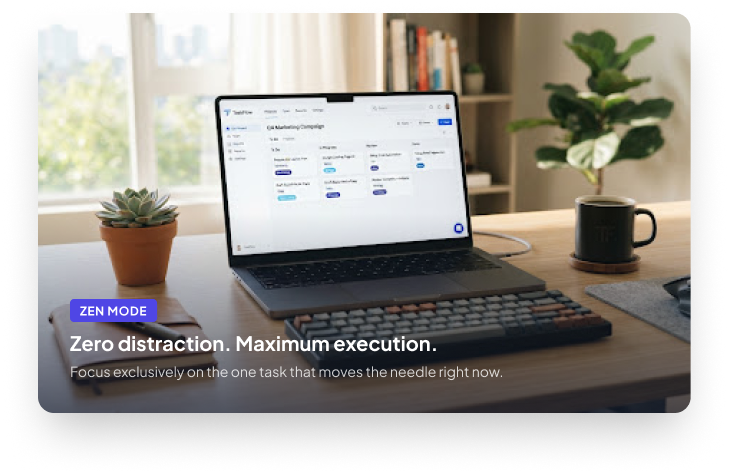
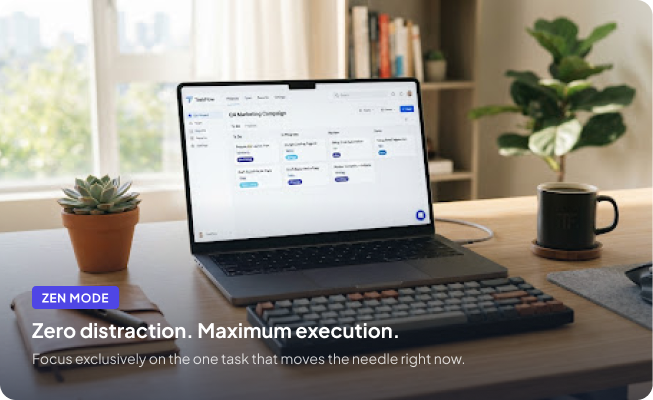
feat: making the structure for the workflow section, along with the styles and the responsive for the section

diff --git a/src/components/workflow/Workflow.jsx b/src/components/workflow/Workflow.jsx
@@ -1,0 +1,65 @@
+import lightningIcon from "../../../images/lightning-icon.svg";
+import recycleIcon from "../../../images/recycle-icon.svg";
+import workflowImage from "../../../images/workflow-image.png";
+
+const Workflow = () => {
+  return (
+    <section className="container mx-auto py-10 grid grid-cols-2 max-lg:grid-cols-1 items-center justify-items-end gap-6 px-6">
+      <div>
+        <span className="text-purple-500 text-xs font-bold tracking-widest">
+          BUILT FOR DEEP WORK
+        </span>
+        <h2 className="my-4 text-5xl font-bold leading-16">
+          Stop switching context. Everything in one unified view.
+        </h2>
+
+        <p className="text-gray-500 mb-6 leading-6">
+          Traditional task managers overwhelm you with endless nested folders
+          and cluttered forms. TaskFlow uses clean keyboard shortcuts and
+          tactile inline editing so your thoughts flow straight to execution.
+        </p>
+
+        <ul className="flex flex-col gap-3">
+          <li className="flex items-center gap-3">
+            <img src={lightningIcon} alt="Lightning icon" />
+            <div className="flex flex-col gap-1">
+              <h3 className="font-bold">Lightning-Fast Hotkeys</h3>
+              <p className="text-sm text-gray-500">
+                Press{" "}
+                <span className="inline-block p-2 bg-blue-50 font-bold rounded-2xl">
+                  C
+                </span>{" "}
+                to create,{" "}
+                <span className="inline-block p-2 bg-blue-50 font-bold rounded-2xl">
+                  E
+                </span>{" "}
+                to edit, and{" "}
+                <span className="inline-block p-2 bg-blue-50 font-bold rounded-2xl">
+                  /
+                </span>{" "}
+                to command.
+              </p>
+            </div>
+          </li>
+          <li className="flex items-center gap-3">
+            <img src={recycleIcon} alt="recycle icon" />
+            <div className="flex flex-col gap-1">
+              <h3 className="font-bold">Universal Offline Mode</h3>
+              <p className="text-sm text-gray-500">
+                Work on flights or subway commutes without Wi-Fi. Syncs
+                seamlessly the instant you reconnect.
+              </p>
+            </div>
+          </li>
+        </ul>
+      </div>
+
+      <img
+        src={workflowImage}
+        alt="A laptop image with the application working on the screen"
+      />
+    </section>
+  );
+};
+
+export default Workflow;

diff --git a/src/components/features/Cards.jsx b/src/components/features/Cards.jsx
@@ -6,11 +6,15 @@ import seamlessIcon from "../../../images/seamless-icon.svg";
 import clockIcon from "../../../images/clock-icon.svg";
 import userImage from "../../../images/user-image.svg";
 
+// bg-${color}-200/30
+// text-${textColor}-600
+
 const Cards = () => {
   return (
     <ul className="mt-14 grid grid-cols-3 gap-9 max-2xl:grid-cols-2 max-md:grid-cols-1 px-6">
       <Card
-        color="purple"
+        backgroundColor="bg-purple-200/30"
+        textColor="text-purple-600"
         description="Categorize, tag, and prioritize your daily tasks with intuitive
           drag-and-drop boards, multi-dimensional filtering, and automatic task
           sorting."
@@ -39,7 +43,8 @@ const Cards = () => {
       </Card>
 
       <Card
-        color="blue"
+        backgroundColor="bg-blue-200/30"
+        textColor="text-blue-600"
         description="Never miss a deadline with automated
           notifications synced across all your
           devices, contextual snooze alerts, and
@@ -72,7 +77,8 @@ const Cards = () => {
       </Card>
 
       <Card
-        color="orange"
+        backgroundColor="bg-orange-200/30"
+        textColor="text-orange-600"
         description="Share lists, delegate tasks, and chat
           with team members in real-time with
           multi-cursor live editing, instant

diff --git a/src/components/features/Card.jsx b/src/components/features/Card.jsx
@@ -1,14 +1,22 @@
-const Card = ({ imageSrc, color, subTitle, title, description, children }) => {
+const Card = ({
+  imageSrc,
+  backgroundColor,
+  textColor,
+  subTitle,
+  title,
+  description,
+  children,
+}) => {
   return (
-    <li className="flex flex-col justify-between text-left bg-purple-0 p-8 rounded-2xl hover:-translate-y-3 hover:shadow-2xl transition-all">
+    <li className="flex flex-col justify-between text-left bg-purple-0 p-8 rounded-2xl hover:-translate-y-3 hover:shadow-2xl transition-all drop-shadow-xs">
       <div>
         <div
-          className={`w-14 h-14 bg-${color}-200/30 flex justify-center items-center rounded-xl mb-6`}
+          className={`w-14 h-14 ${backgroundColor} flex justify-center items-center rounded-xl mb-6`}
         >
           <img src={imageSrc} alt={`${subTitle} icon`} />
         </div>
 
-        <span className={`text-xs font-bold text-${color}-600 tracking-wider`}>
+        <span className={`text-xs font-bold ${textColor} tracking-wider`}>
           {subTitle}
         </span>
         <h3 className="text-2xl font-semibold">{title}</h3>

diff --git a/src/App.jsx b/src/App.jsx
@@ -1,6 +1,7 @@
 import Header from "./components/header/Header.jsx";
 import Hero from "./components/hero/Hero.jsx";
 import Features from "./components/features/Features.jsx";
+import Workflow from "./components/workflow/Workflow.jsx";
 
 function App() {
   return (
@@ -9,6 +10,7 @@ function App() {
       <main>
         <Hero />
         <Features />
+        <Workflow />
       </main>
     </>
   );
